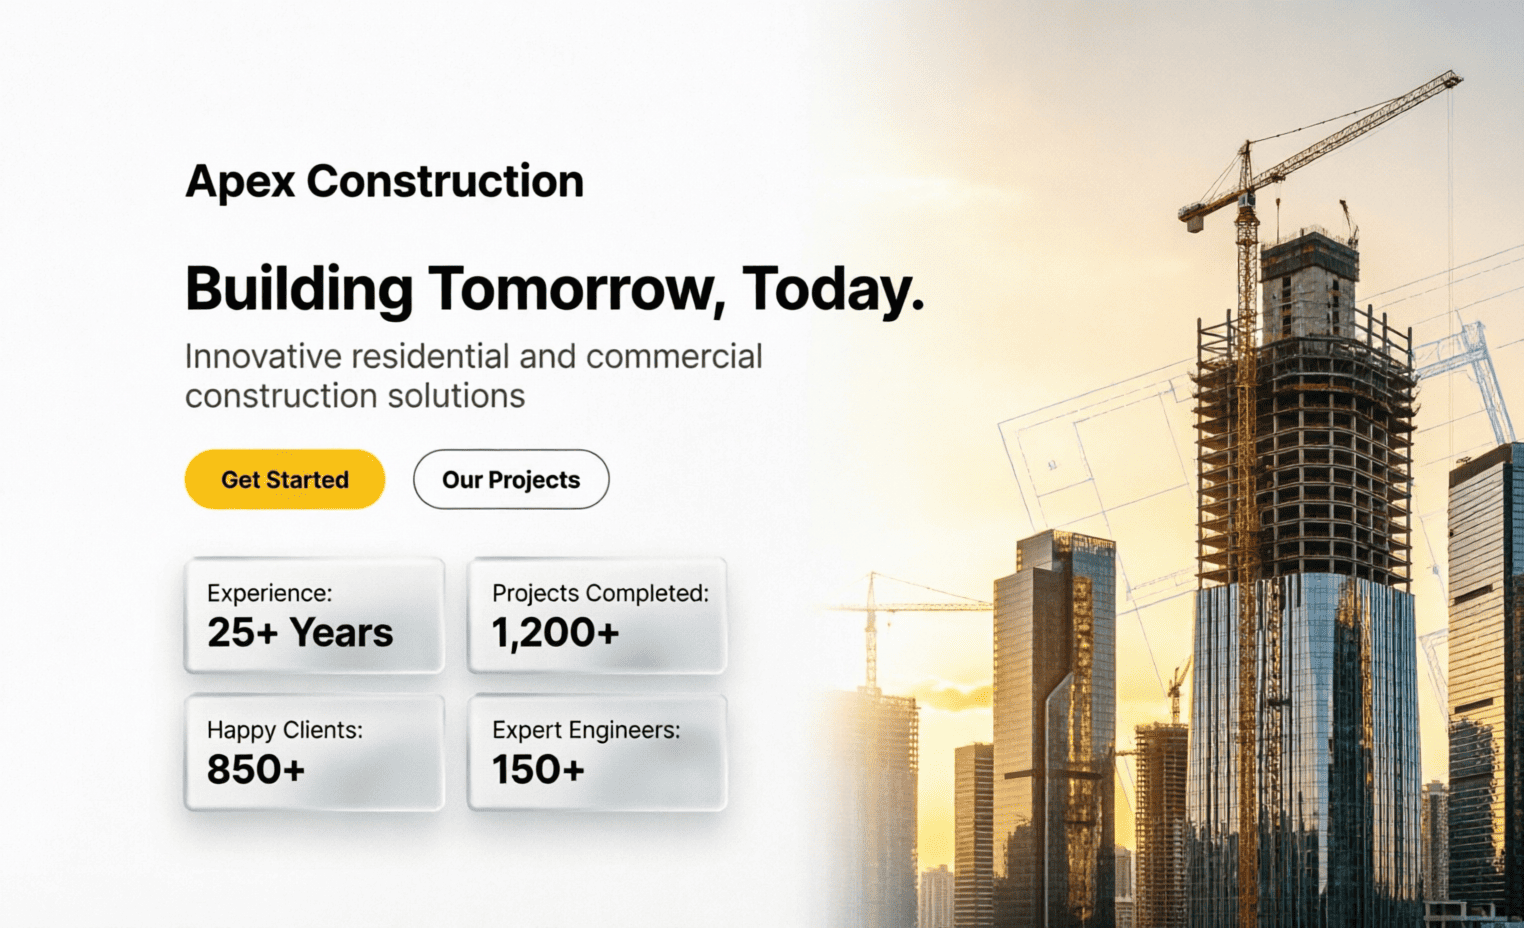
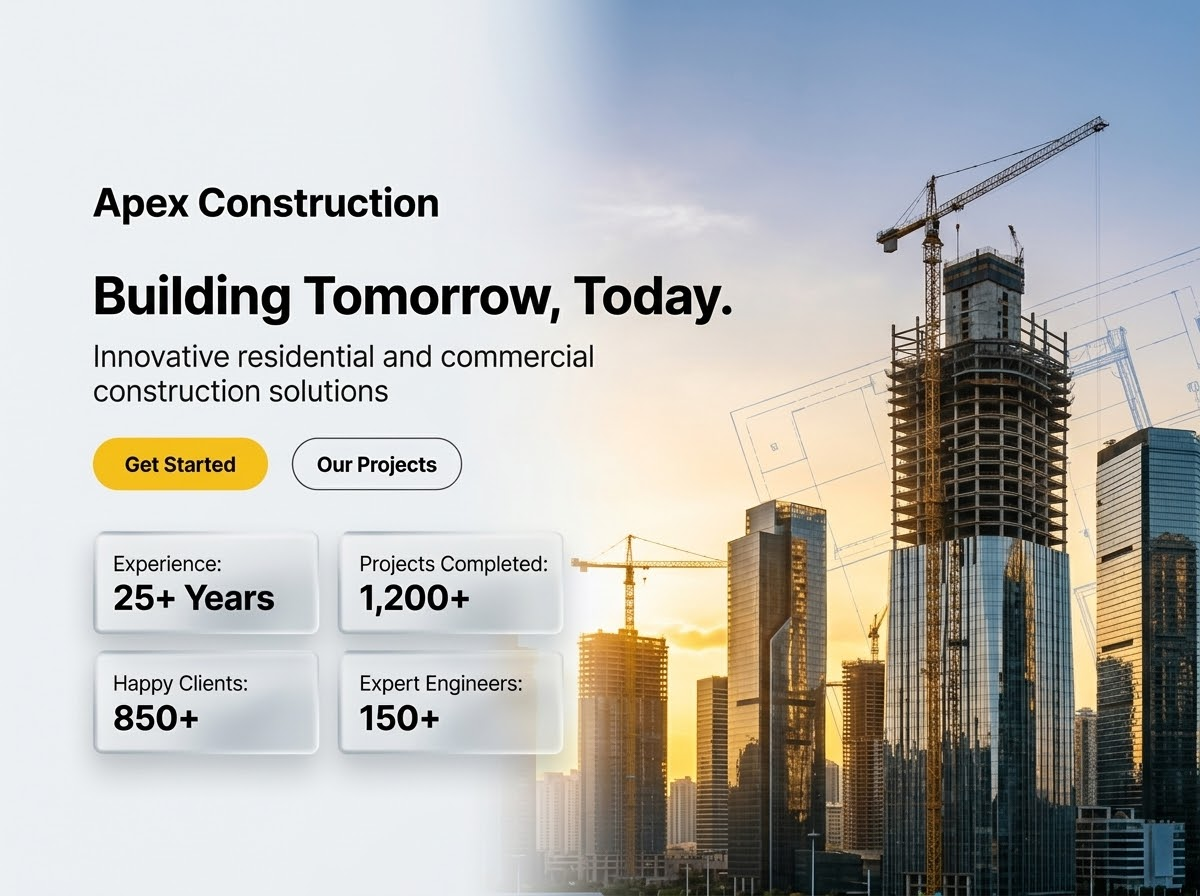
added admin dashboard project

diff --git a/index.html b/index.html
@@ -115,7 +115,7 @@
             <button>PHP</button>
             <button>Laravel</button>
             <button>MySQL</button>
-            <button>PostgreSQL </button>
+            <button>PostgreSQL</button>
             <button>UI/UX Design</button>
             <button>Git & GitHub</button>
           </div>
@@ -203,7 +203,7 @@
         <!-- Project Card 3 -->
         <div class="project-card">
           <div class="project-image">
-            <img src="images/mycampus-hub-screenshot.png" alt="MyCampus Hub" />
+            <img src="images/mycampus-hub-screenshot2.png" alt="MyCampus Hub" />
           </div>
           <div class="project-content">
             <h3 class="project-title">MyCampus Hub</h3>
@@ -286,12 +286,52 @@
             </div>
           </div>
         </div>
-
+<div class="project-card">
+          <div class="project-image">
+            <img src="images/vertex-image.png" alt="Vertex" />
+          </div>
+          <div class="project-content">
+            <h3 class="project-title">Vertex: Modern Admin Dashboard</h3>
+            <p class="project-description">
+              A responsive, multi-page admin dashboard built with React,
+              Tailwind CSS, and React Router, featuring interactive charts, dark
+              mode, collapsible navigation, and reusable data components for
+              analytics, orders, and reports.
+            </p>
+            <div class="project-tech">
+              <span class="tech-tag">React</span>
+              <span class="tech-tag">React Router DOM</span>
+              <span class="tech-tag">Tailwind CSS</span>
+              <span class="tech-tag">Resposive Design</span>
+              <span class="tech-tag">Recharts</span>
+              <span class="tech-tag">Lucide React</span>
+              <span class="tech-tag">Vite</span>
+              <!-- <span class="tech-tag">PHP</span>
+                    <span class="tech-tag">MySQL</span> -->
+            </div>
+            <div class="project-links">
+              <a
+                href="https://github.com/AshwinMaharjan/vertex-admin-dashboard"
+                target="_blank"
+                class="project-btn"
+              >
+                <i class="fab fa-github"></i> GitHub
+              </a>
+              <a
+                href="https://vertex-admin-dashboard-five.vercel.app/"
+                target="_blank"
+                class="project-btn"
+              >
+                <i class="fas fa-external-link-alt"></i> Live Demo
+              </a>
+            </div>
+          </div>
+        </div>
         <!-- Project Card 2 -->
         <div class="project-card">
           <div class="project-image">
             <img
-              src="images/1779369345616-019e4aac-5164-7f1e-b73b-0018eeddd74e.png"
+              src="images/cinexpress-ss.png"
               alt="Portfolio Website"
             />
           </div>
@@ -406,46 +446,7 @@
             </div>
           </div>
         </div>
-        <div class="project-card">
-          <div class="project-image">
-            <img
-              src="images/notion-website-screenshot.png"
-              alt="Notion Website Clone"
-            />
-          </div>
-          <div class="project-content">
-            <h3 class="project-title">Notion Website Clone</h3>
-            <p class="project-description">
-              A frontend UI clone of the Notion website built using HTML, CSS,
-              and JavaScript. This project focuses on replicating the layout,
-              styling, and interactive elements of Notion’s landing page for
-              learning and portfolio purposes only.
-            </p>
-            <div class="project-tech">
-              <span class="tech-tag">HTML</span>
-              <span class="tech-tag">CSS</span>
-              <span class="tech-tag">JavaScript</span>
-              <!-- <span class="tech-tag">PHP</span>
-                    <span class="tech-tag">MySQL</span> -->
-            </div>
-            <div class="project-links">
-              <a
-                href="https://github.com/AshwinMaharjan/notion-website-ui-clone"
-                target="_blank"
-                class="project-btn"
-              >
-                <i class="fab fa-github"></i> GitHub
-              </a>
-              <a
-                href="https://notion-website-ui-clone.vercel.app/"
-                target="_blank"
-                class="project-btn"
-              >
-                <i class="fas fa-external-link-alt"></i> Live Demo
-              </a>
-            </div>
-          </div>
-        </div>
+        
         <!-- Project Card 6 -->
         <!-- <div class="project-card">
             <div class="project-image">
